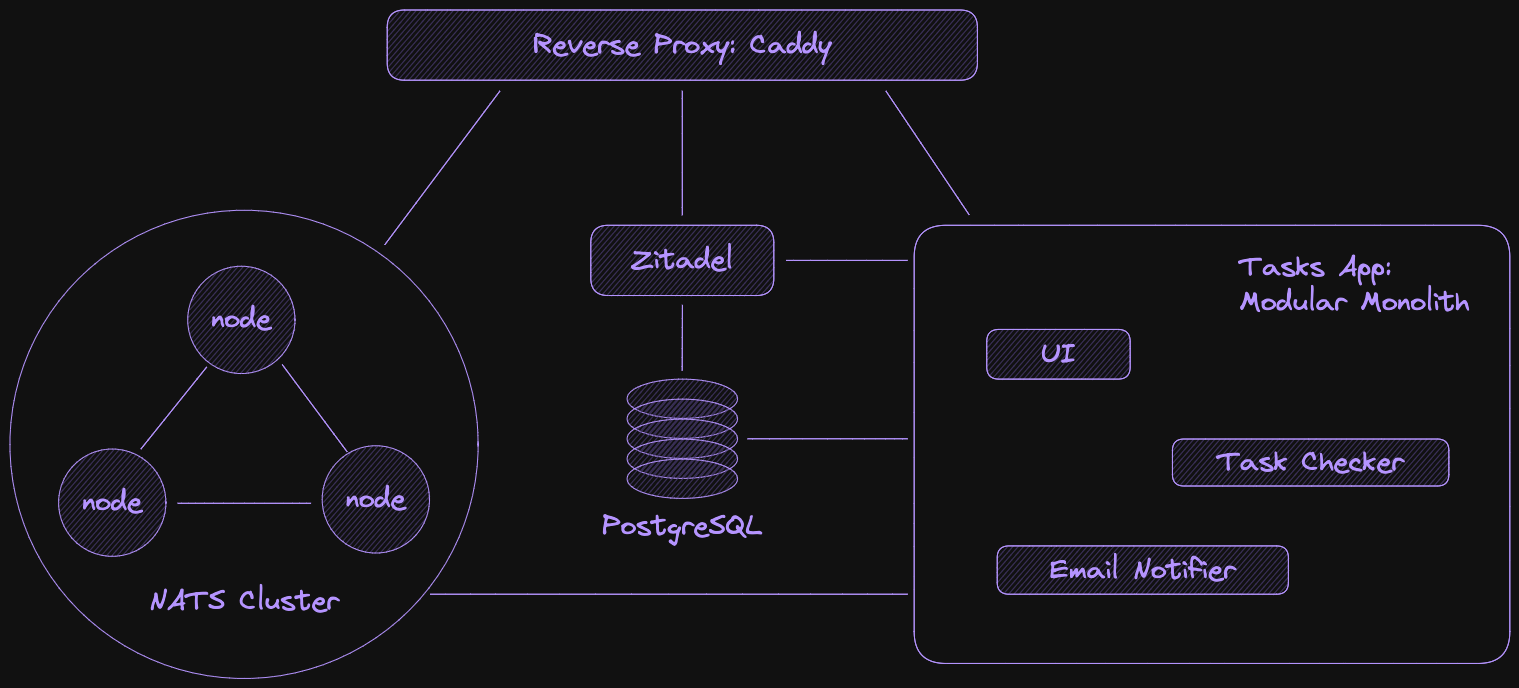
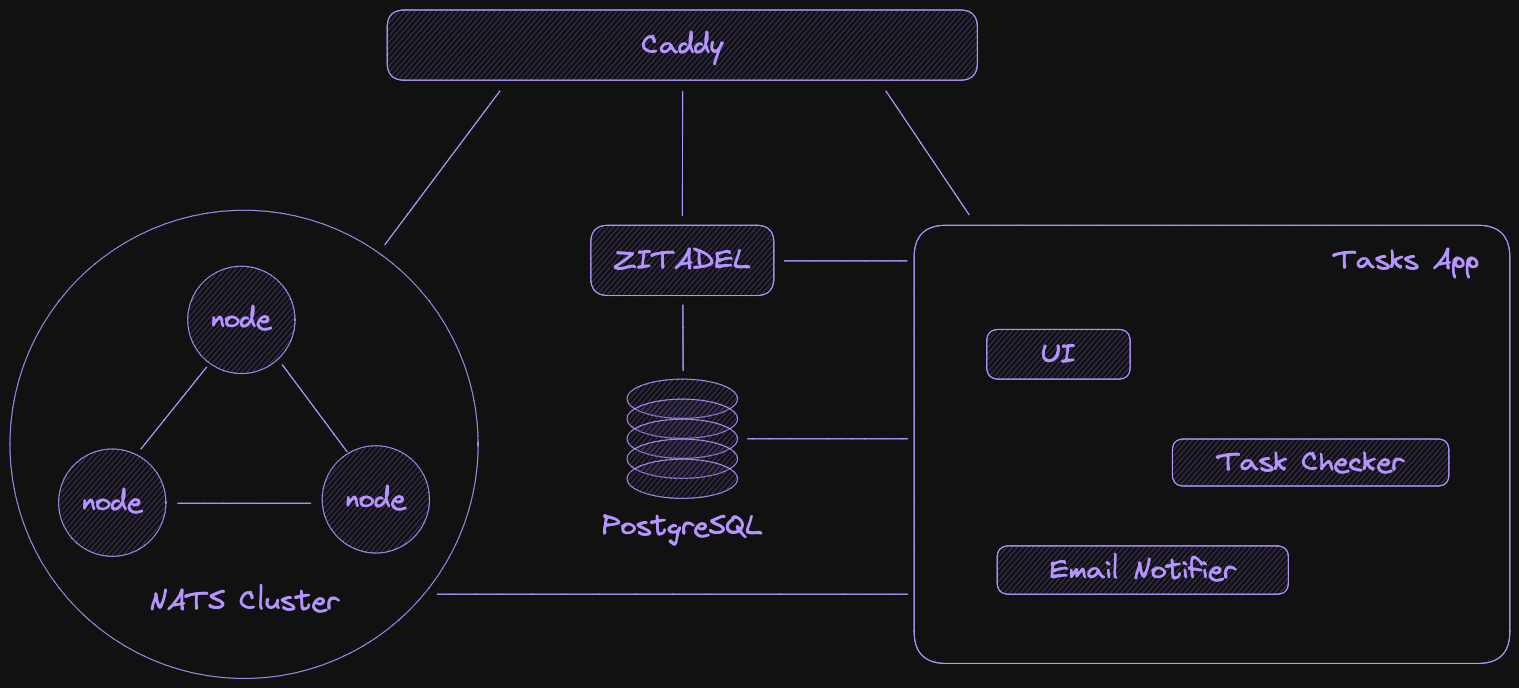
Cleanup.

diff --git a/examples/README.md b/examples/README.md
@@ -31,9 +31,9 @@ To start the infra services (caddy, zitadel, postgres, and nats), execute the fo
 docker compose up --build -d
 ```
 
-### 4. Zitadel Configuration
+### 4. ZITADEL Configuration
 
-To configure Zitadel resources, execute the following commands:
+To configure ZITADEL resources, execute the following commands:
 
 1. Navigate to the `zitadel-configure` directory:
 
@@ -56,7 +56,7 @@ When running the examples, use the following example credentials to log in to th
 | `editor` | `S3c_r3t!`       |
 | `viewer` | `S3c_r3t!`       |
 
-#### Zitadel Console (UI)
+#### ZITADEL Console (UI)
 
 https://auth.tasks-app.com/ui/console
 
